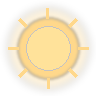
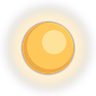
G3: Himmel, Wetter, Auflagen und Belagerung im neuen Stil
Neuer Generator tools/grafik/sprites-g3-himmel.py ersetzt die Bilder von
P1/P6 unter denselben IDs und Größen (Manifest unverändert). Schnee liegt
jetzt als Verwehung am Fuß der Gebäude statt als feste Dachkappe, weil die
Dächer je Stufe verschieden sind; die Bühne setzt die Auflage dafür genau
auf den Fußpunkt.

Claude-Session: https://claude.ai/code/session_01YDDbMpWcGM4tqp3PHNteFc

diff --git a/src/ui/bastion/grafik/grafik-buehne.ts b/src/ui/bastion/grafik/grafik-buehne.ts
@@ -900,7 +900,11 @@ function wolkenZeichnen(
   lage.addChild(g);
 }
 
-/** Schnee-Dach-Auflage aus Atlas auf Gebäude-Fußpunkt (Winter). */
+/**
+ * Schnee-Auflage aus Atlas auf Gebäude-Fußpunkt (Winter). Seit G3 eine Verwehung an den
+ * Vorderkanten des Fußabdrucks (`auflage/schnee_dach_*`): Die Dächer sind je Stufe
+ * verschieden, der Fuß nicht. Darum genau auf dem Fußpunkt, ohne Versatz.
+ */
 function schneeDachSprite(
   gebaeude: Container,
   pos: Position,
@@ -920,8 +924,7 @@ function schneeDachSprite(
   spr.anchor.set(eintrag.anker.x, eintrag.anker.y);
   spr.width = eintrag.pixel.w / 2;
   spr.height = eintrag.pixel.h / 2;
-  // leicht über dem Gebäude-Fuß, damit die Kappe auf dem Dach sitzt
-  spr.position.set(fuss.x, fuss.y - 8);
+  spr.position.set(fuss.x, fuss.y);
   spr.zIndex = tiefe * 10 + 1;
   gebaeude.addChild(spr);
 }

diff --git a/tools/grafik/sprites-g3-himmel.py b/tools/grafik/sprites-g3-himmel.py
@@ -1,0 +1,321 @@
+#!/usr/bin/env python3
+"""G3: Himmel, Wetter, Auflagen und Belagerung im Stil der Stil-Regel (GRAFIK-SPRITES.md §12.7).
+
+Ersetzt die Bilder der alten Chargen P1 (`sprites-p1-wetter.py`) und P6
+(`sprites-p6-belagerung.py`) unter denselben IDs, Pfaden und Bildgrößen; die App
+liest die Größe aus `pixel` im Manifest, das sich dadurch nicht ändert.
+
+- Himmel: Sonne (Scheibe mit weichem Hof, keine Strahlen), Mond (Sichel), zwei Wolken
+  aus Kugeln mit flacher Unterseite, Licht von rechts oben, Kontur 70.
+- Wetter: Regentropfen, Schneeflocke (weich, kein Glitzern), Nebelband.
+- Auflagen: drei Herbstblätter; Schnee als **Verwehung am Fuß** der Vorderkanten
+  (1×1, 2×2, 3×3). Die Gebäude haben seit G3 sehr verschiedene Dachformen und Höhen;
+  eine feste Dachkappe säße mitten im Turm. Am Boden passt der Schnee zu jedem Gebäude.
+- Belagerung: dunkle, weiche Wolkenbank und drei Rauchfahnen (grau, ruhig).
+
+Intern vierfach gezeichnet und weich verkleinert. Kein Zufall: alle Lagen sind feste Zahlen.
+Aufruf: python3 tools/grafik/sprites-g3-himmel.py
+"""
+from __future__ import annotations
+
+import json
+import math
+import sys
+from pathlib import Path
+
+from PIL import Image, ImageDraw, ImageFilter
+
+sys.dont_write_bytecode = True
+
+WURZEL = Path(__file__).resolve().parents[2]
+ATLAS = WURZEL / "public" / "grafik" / "atlas"
+S = 4  # intern vierfach
+
+KONTUR = (43, 38, 32, 70)  # §12.4: Himmel, Wetter, Auflagen
+SONNE = (255, 200, 90)
+SONNE_HELL = (255, 226, 154)
+SONNE_TIEF = (238, 170, 70)
+MOND = (232, 228, 216)
+MOND_HELL = (246, 243, 234)
+MOND_TIEF = (197, 192, 180)
+WOLKE = (255, 255, 255)
+WOLKE_MITTE = (240, 245, 248)
+WOLKE_UNTEN = (224, 232, 238)
+REGEN = (122, 160, 192)
+SCHNEE = (244, 247, 251)
+SCHNEE_SCHATTEN = (206, 220, 232)
+LAUB = [((196, 96, 58), (150, 66, 36)), ((224, 122, 79), (176, 86, 50)), ((196, 154, 60), (146, 110, 36))]
+DUNST = (74, 64, 70)
+RAUCH = (136, 132, 128)
+RAUCH_HELL = (178, 174, 168)
+
+
+def hell(c, d):
+    return tuple(max(0, min(255, v + d)) for v in c[:3])
+
+
+class Blatt:
+    """Zeichenfläche in vierfacher Größe."""
+
+    def __init__(self, w: int, h: int) -> None:
+        self.w, self.h = w, h
+        self.bild = Image.new("RGBA", (w * S, h * S), (0, 0, 0, 0))
+        self.d = ImageDraw.Draw(self.bild, "RGBA")
+
+    def kreis(self, x, y, r, farbe, kontur=None, breite=1.0) -> None:
+        self.d.ellipse(
+            [(x - r) * S, (y - r) * S, (x + r) * S, (y + r) * S],
+            fill=farbe,
+            outline=kontur,
+            width=max(1, round(breite * S)) if kontur else 0,
+        )
+
+    def oval(self, x0, y0, x1, y1, farbe, kontur=None) -> None:
+        self.d.ellipse([x0 * S, y0 * S, x1 * S, y1 * S], fill=farbe, outline=kontur, width=S if kontur else 0)
+
+    def form(self, pts, farbe, kontur=None) -> None:
+        self.d.polygon([(round(x * S), round(y * S)) for x, y in pts], fill=farbe, outline=kontur)
+
+    def strich(self, a, b, farbe, breite=1.0) -> None:
+        self.d.line([(a[0] * S, a[1] * S), (b[0] * S, b[1] * S)], fill=farbe, width=max(1, round(breite * S)))
+
+    def weich(self, radius: float) -> None:
+        self.bild = self.bild.filter(ImageFilter.GaussianBlur(radius * S))
+        self.d = ImageDraw.Draw(self.bild, "RGBA")
+
+    def fertig(self) -> Image.Image:
+        return self.bild.resize((self.w, self.h), Image.LANCZOS)
+
+
+# —— Himmel ——————————————————————————————————————————————————
+
+
+def sonne() -> Image.Image:
+    b = Blatt(96, 96)
+    hof = Blatt(96, 96)
+    hof.kreis(48, 48, 40, SONNE + (70,))
+    hof.weich(5)
+    b.bild.alpha_composite(hof.bild)
+    b.kreis(48, 48, 27, SONNE_TIEF, KONTUR, 1.2)
+    b.kreis(50, 46, 23, SONNE)  # mittlerer Ton nach rechts oben
+    b.kreis(54, 42, 12, SONNE_HELL)  # Licht von rechts oben
+    return b.fertig()
+
+
+def mond() -> Image.Image:
+    b = Blatt(72, 72)
+    hof = Blatt(72, 72)
+    hof.kreis(36, 36, 30, MOND + (46,))
+    hof.weich(4)
+    b.bild.alpha_composite(hof.bild)
+    sichel = Blatt(72, 72)
+    sichel.kreis(36, 36, 22, MOND_TIEF + (255,))
+    sichel.kreis(39, 34, 19, MOND + (255,))
+    sichel.kreis(41, 31, 9, MOND_HELL + (255,))
+    for x, y, r in ((30, 42, 3.2), (40, 44, 2.2), (33, 30, 2.4)):  # Krater, feste Lagen
+        sichel.kreis(x, y, r, MOND_TIEF + (255,))
+    # Sichel: rechts oben ein Stück herausnehmen (durchsichtig)
+    maske = Image.new("L", sichel.bild.size, 0)
+    dm = ImageDraw.Draw(maske)
+    dm.ellipse([(36 - 22) * S, (36 - 22) * S, (36 + 22) * S, (36 + 22) * S], fill=255)
+    dm.ellipse([(48 - 19) * S, (26 - 19) * S, (48 + 19) * S, (26 + 19) * S], fill=0)
+    sichel.bild.putalpha(Image.composite(sichel.bild.getchannel("A"), Image.new("L", maske.size, 0), maske))
+    b.bild.alpha_composite(sichel.bild)
+    # Kontur der Sichel
+    kontur = maske.filter(ImageFilter.FIND_EDGES).point(lambda a: 70 if a > 40 else 0)
+    rand = Image.new("RGBA", maske.size, KONTUR[:3] + (0,))
+    rand.putalpha(kontur)
+    b.bild.alpha_composite(rand)
+    return b.fertig()
+
+
+def wolke(w: int, h: int, kugeln) -> Image.Image:
+    """Kugeln (x, y, r) auf flacher Unterseite: Umriss, dunkler Grund, Mitte, Licht."""
+    b = Blatt(w, h)
+    unten = h - 10
+    for x, y, r in kugeln:  # Kontur: alle Teile etwas größer
+        b.kreis(x, y, r + 1.2, KONTUR)
+    b.form([(kugeln[0][0], unten - 10), (kugeln[-1][0], unten - 10), (kugeln[-1][0], unten + 1.2), (kugeln[0][0], unten + 1.2)], KONTUR)
+    for x, y, r in kugeln:
+        b.kreis(x, y, r, WOLKE_UNTEN + (255,))
+    b.form([(kugeln[0][0], unten - 10), (kugeln[-1][0], unten - 10), (kugeln[-1][0], unten), (kugeln[0][0], unten)], WOLKE_UNTEN + (255,))
+    for x, y, r in kugeln:  # Mitte nach rechts oben
+        b.kreis(x + r * 0.12, y - r * 0.16, r * 0.8, WOLKE_MITTE + (255,))
+    b.form([(kugeln[0][0], unten - 13), (kugeln[-1][0], unten - 13), (kugeln[-1][0], unten - 6), (kugeln[0][0], unten - 6)], WOLKE_MITTE + (255,))
+    for x, y, r in kugeln:  # Licht
+        b.kreis(x + r * 0.28, y - r * 0.32, r * 0.48, WOLKE + (255,))
+    # flache Unterseite: unter `unten` wegschneiden
+    alpha = b.bild.getchannel("A")
+    ImageDraw.Draw(alpha).rectangle([0, (unten + 1.2) * S, w * S, h * S], fill=0)
+    b.bild.putalpha(alpha)
+    return b.fertig()
+
+
+# —— Wetter ——————————————————————————————————————————————————
+
+
+def regen_tropfen() -> Image.Image:
+    b = Blatt(16, 28)
+    b.strich((10.5, 3), (6.5, 20), REGEN + (150,), 2.2)
+    b.form([(5, 19), (8.5, 15), (11, 21), (8, 25), (4.6, 23)], REGEN + (220,))
+    b.kreis(8, 21.5, 2.6, REGEN + (230,))
+    b.kreis(8.8, 20.6, 1.0, (210, 228, 240, 220))
+    return b.fertig()
+
+
+def schnee_flocke() -> Image.Image:
+    b = Blatt(24, 24)
+    b.kreis(12, 12, 7.5, SCHNEE_SCHATTEN + (120,))
+    b.weich(1.2)
+    b.kreis(12, 12, 5.6, SCHNEE + (255,), KONTUR, 0.8)
+    b.kreis(13, 11, 3.0, (255, 255, 255, 255))
+    return b.fertig()
+
+
+def nebel() -> Image.Image:
+    b = Blatt(160, 64)
+    for x, y, rx, ry, a in ((44, 36, 40, 12, 120), (86, 30, 46, 14, 140), (122, 38, 34, 11, 110), (80, 42, 64, 9, 90)):
+        b.oval(x - rx, y - ry, x + rx, y + ry, (226, 232, 238, a))
+    b.weich(5)
+    return b.fertig()
+
+
+# —— Auflagen ——————————————————————————————————————————————————
+
+
+def laub(n: int) -> Image.Image:
+    """Drei Blattformen: Ahorn, Eiche, Linde (feste Formen), Mittelrippe, Kontur 70."""
+    farbe, tief = LAUB[n - 1]
+    b = Blatt(28, 28)
+    if n == 1:  # Ahorn: fünf Spitzen
+        pts = []
+        for k in range(10):
+            a = -math.pi / 2 + k * math.pi / 5 - 0.0
+            r = 10 if k % 2 == 0 else 4.6
+            pts.append((14 + r * math.cos(a), 14.5 + r * math.sin(a) * 0.95))
+    elif n == 2:  # Eiche: gewellter Rand
+        pts = []
+        for k in range(24):
+            a = 2 * math.pi * k / 24
+            r = 1 + 0.16 * math.cos(6 * a)
+            pts.append((14 + 6.2 * r * math.cos(a), 14 + 10 * r * math.sin(a)))
+    else:  # Linde: Herzform
+        pts = []
+        for k in range(32):
+            t = 2 * math.pi * k / 32
+            x = 16 * math.sin(t) ** 3
+            y = -(13 * math.cos(t) - 5 * math.cos(2 * t) - 2 * math.cos(3 * t) - math.cos(4 * t))
+            pts.append((14 + x * 0.6, 13 + y * 0.6))
+    b.form(pts, farbe + (255,), KONTUR)
+    # rechte Hälfte heller (Licht von rechts oben)
+    licht = Blatt(28, 28)
+    licht.form(pts, hell(farbe, 22) + (255,))
+    maske = Image.new("L", licht.bild.size, 0)
+    ImageDraw.Draw(maske).polygon([(14 * S, 0), (28 * S, 0), (28 * S, 28 * S), (14 * S, 28 * S)], fill=255)
+    licht.bild.putalpha(Image.composite(licht.bild.getchannel("A"), Image.new("L", maske.size, 0), maske))
+    b.bild.alpha_composite(licht.bild)
+    b.strich((14, 5.5), (14, 24.5), tief + (230,), 1.0)  # Mittelrippe mit Stiel
+    return b.fertig()
+
+
+def schnee_verwehung(n: int, w: int, h: int) -> Image.Image:
+    """Schneeverwehung an den beiden Vorderkanten des n×n-Fußabdrucks.
+
+    Raute in doppelter Größe: 48 × 24 je Feld (halb), unterste Ecke unten Mitte des Bildes
+    (Anker 0,5 / 1,0 wie das Gebäude). Ein durchgehender Wall aus eng liegenden Kugeln,
+    dicker zur vorderen Ecke hin; links dunkler (Licht von rechts oben). Feste Zahlen."""
+    b = Blatt(w, h)
+    cx, fuss = w / 2, h - 3
+    links = (cx - n * 48 - 2, fuss - n * 24 - 1)
+    rechts = (cx + n * 48 + 2, fuss - n * 24 - 1)
+    unten = (cx, fuss)
+    huegel = []
+    k_max = 9 * n
+    for seite, (a, z) in (("l", (links, unten)), ("r", (unten, rechts))):
+        for k in range(k_max + 1):
+            t = k / k_max
+            x = a[0] + (z[0] - a[0]) * t
+            y = a[1] + (z[1] - a[1]) * t
+            naehe = t if seite == "l" else 1 - t  # 1 an der vorderen Ecke
+            welle = (0.0, 1.2, 0.4, 1.8, 0.8)[k % 5]
+            dicke = 6.0 + 4.5 * naehe + welle
+            huegel.append((seite, x, y - dicke * 0.45, dicke))
+    for _, x, y, r in huegel:  # Kontur
+        b.oval(x - r - 1, y - r * 0.72 - 1, x + r + 1, y + r * 0.72 + 1, KONTUR)
+    for seite, x, y, r in huegel:
+        b.oval(x - r, y - r * 0.72, x + r, y + r * 0.72, (SCHNEE_SCHATTEN if seite == "l" else hell(SCHNEE_SCHATTEN, 14)) + (255,))
+    for seite, x, y, r in huegel:
+        rr = r * 0.78
+        b.oval(x + r * 0.15 - rr, y - r * 0.2 - rr * 0.62, x + r * 0.15 + rr, y - r * 0.2 + rr * 0.62, (hell(SCHNEE, -8) if seite == "l" else SCHNEE) + (255,))
+    for seite, x, y, r in huegel[2::5]:  # Licht nur auf einzelnen Kuppen
+        rr = r * 0.32
+        b.oval(x + r * 0.3 - rr, y - r * 0.38 - rr * 0.6, x + r * 0.3 + rr, y - r * 0.38 + rr * 0.6, (255, 255, 255, 255))
+    return b.fertig()
+
+
+# —— Belagerung ——————————————————————————————————————————————————
+
+
+def belagerung_himmel() -> Image.Image:
+    b = Blatt(320, 200)
+    for x, y, rx, ry, a in (
+        (90, 92, 80, 46, 120),
+        (170, 78, 96, 52, 140),
+        (250, 96, 70, 42, 120),
+        (160, 118, 130, 34, 90),
+    ):
+        b.oval(x - rx, y - ry, x + rx, y + ry, DUNST + (a,))
+    for x, y, rx, ry in ((120, 70, 44, 20), (210, 66, 40, 18)):  # hellere Kanten oben rechts
+        b.oval(x - rx, y - ry, x + rx, y + ry, hell(DUNST, 24) + (60,))
+    b.weich(14)
+    return b.fertig()
+
+
+def rauch(w: int, h: int, teile) -> Image.Image:
+    b = Blatt(w, h)
+    for x, y, r, a in teile:
+        b.kreis(x, y, r * 1.3, RAUCH + (a,))
+    for x, y, r, a in teile:
+        b.kreis(x + r * 0.3, y - r * 0.35, r * 0.75, RAUCH_HELL + (a,))
+    b.weich(4.0)
+    return b.fertig()
+
+
+# —— Schreiben ——————————————————————————————————————————————————
+
+BILDER = {
+    "himmel/sonne": sonne,
+    "himmel/mond": mond,
+    "himmel/wolke_1": lambda: wolke(168, 72, [(38, 46, 18), (72, 34, 24), (108, 38, 22), (136, 48, 16)]),
+    "himmel/wolke_2": lambda: wolke(200, 80, [(40, 54, 18), (74, 40, 25), (112, 32, 28), (150, 44, 22), (176, 56, 14)]),
+    "wetter/regen_tropfen": regen_tropfen,
+    "wetter/schnee_flocke": schnee_flocke,
+    "wetter/nebel": nebel,
+    "auflage/laub_1": lambda: laub(1),
+    "auflage/laub_2": lambda: laub(2),
+    "auflage/laub_3": lambda: laub(3),
+    "auflage/schnee_dach_1x1": lambda: schnee_verwehung(1, 112, 84),
+    "auflage/schnee_dach_2x2": lambda: schnee_verwehung(2, 208, 138),
+    "auflage/schnee_dach_3x3": lambda: schnee_verwehung(3, 304, 192),
+    "belagerung/himmel": belagerung_himmel,
+    "belagerung/rauch_1": lambda: rauch(120, 56, [(26, 40, 12, 150), (46, 32, 15, 140), (70, 26, 14, 120), (92, 20, 11, 100), (108, 16, 7, 80)]),
+    "belagerung/rauch_2": lambda: rauch(100, 48, [(22, 34, 11, 150), (42, 27, 13, 135), (63, 22, 11, 115), (82, 17, 8, 90)]),
+    "belagerung/rauch_3": lambda: rauch(88, 44, [(20, 31, 10, 150), (38, 25, 11, 130), (56, 20, 9, 110), (72, 16, 6, 85)]),
+}
+
+
+def main() -> int:
+    manifest_pfad = ATLAS / "manifest.json"
+    manifest = json.loads(manifest_pfad.read_text(encoding="utf-8"))
+    nach_id = {e["id"]: e for e in manifest["eintraege"]}
+    for id_, zeichne in BILDER.items():
+        e = nach_id[id_]  # gleiche ID, gleicher Pfad, gleiche Größe
+        bild = zeichne()
+        assert (bild.width, bild.height) == (e["pixel"]["w"], e["pixel"]["h"]), id_
+        bild.save(ATLAS / e["datei"], "PNG", optimize=True)
+        print(id_, e["pixel"])
+    return 0
+
+
+if __name__ == "__main__":
+    sys.exit(main())
